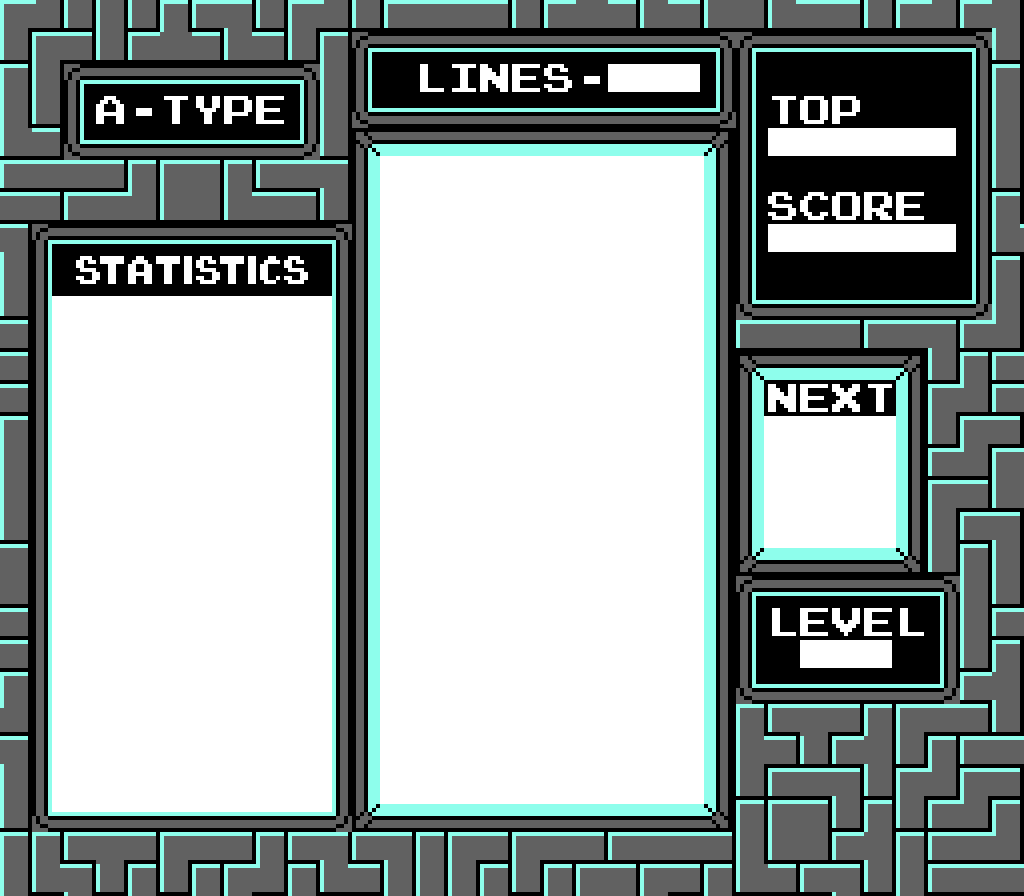
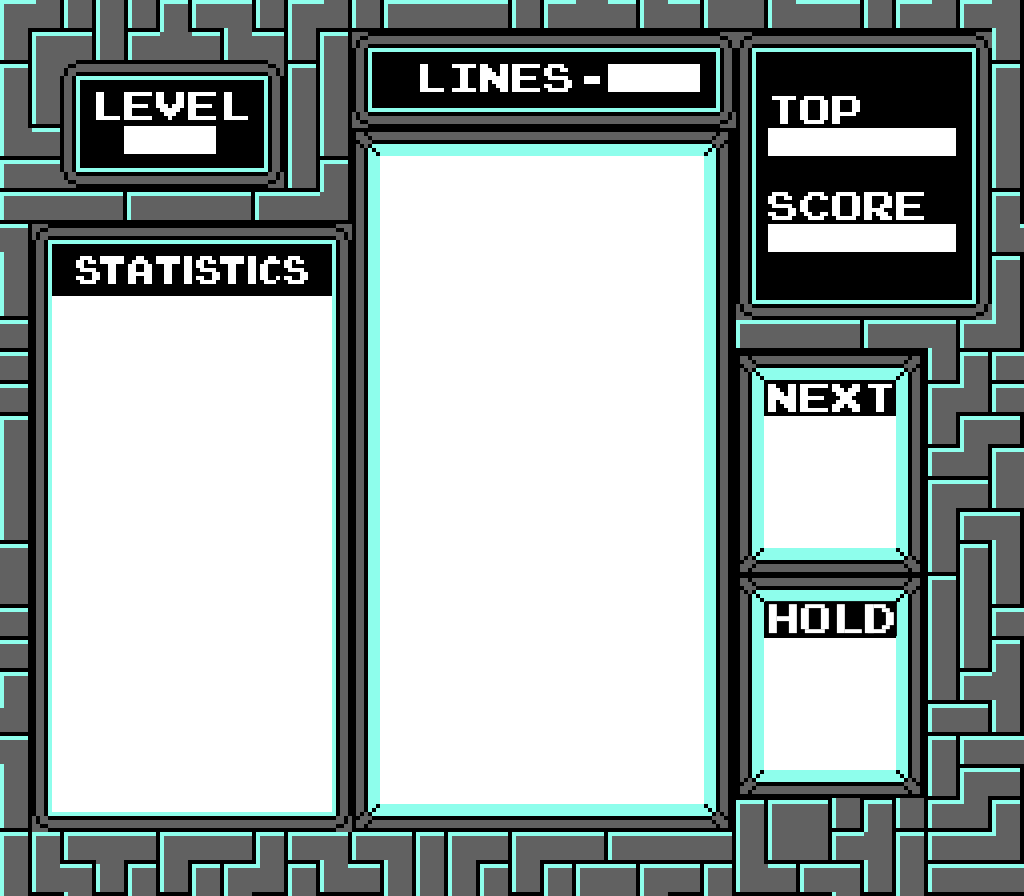
Board ready for piece hold implementation

Changed region(s): [[0.7188, 0.625, 0.9375, 0.9062], [0.0, 0.0625, 0.3438, 0.25]]

diff --git a/source/Setup/Constants.py b/source/Setup/Constants.py
@@ -17,7 +17,7 @@ LINES_TX_NW: tuple[int, int] = (608, 64)
 
 LEVEL_CHARS: int = 3
 LEVEL_TX_SIZE: tuple[int, int] = (NUMBER_SIZE[0]*LEVEL_CHARS, NUMBER_SIZE[1])
-LEVEL_TX_NW: tuple[int, int] = (800, 640)
+LEVEL_TX_NW: tuple[int, int] = (124, 126)
 
 SCORES_CHARS: int = 6
 SCORES_TX_SIZE: tuple[int, int] = (NUMBER_SIZE[0]*SCORES_CHARS, NUMBER_SIZE[1])

diff --git a/source/Setup/GlobalVars.py b/source/Setup/GlobalVars.py
@@ -12,6 +12,7 @@ all_objects:  list[object] = []
 all_overlays: list[object] = []
 
 active_tetromino: Tetromino.Tetromino | None = None
+held_tetromino: Tetromino.Tetromino | None = None
 tetromino_queue: list[Tetromino.Tetromino] = []
 
 game_board: Board.Board | None = None
